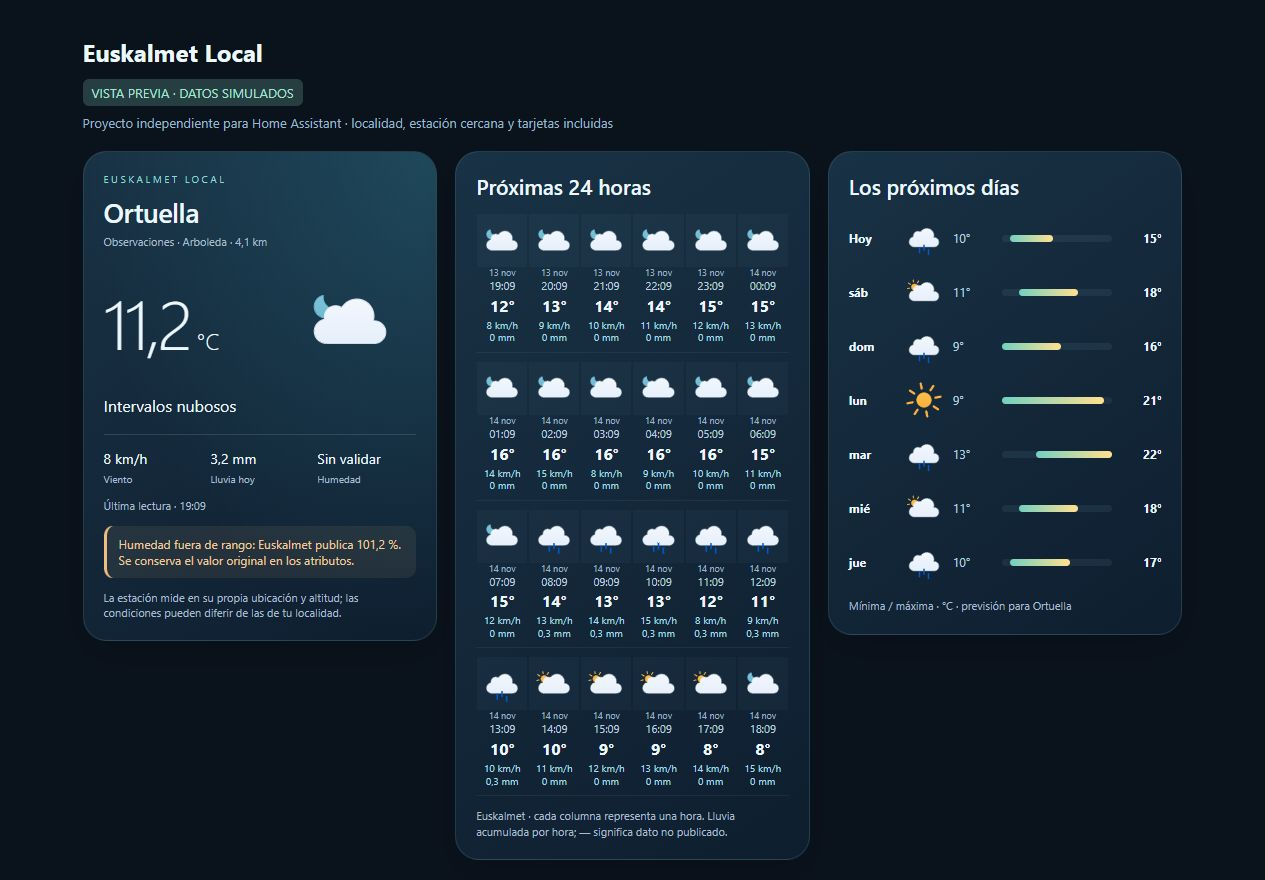
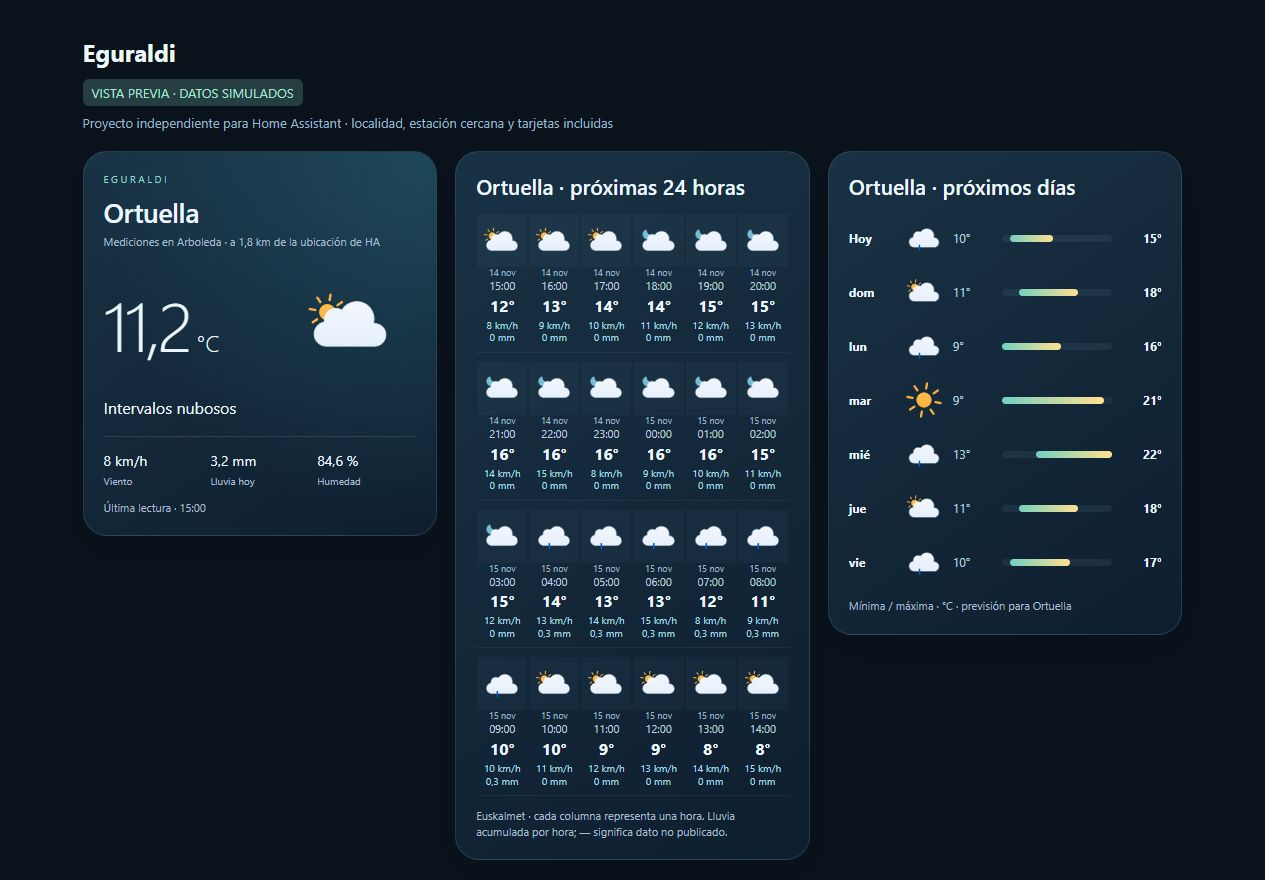
Refresh Eguraldi screenshots and add voluntary project support

diff --git a/docs/preview.html b/docs/preview.html
@@ -1,11 +1,39 @@
 <!doctype html><html lang="es"><meta charset="utf-8"><meta name="viewport" content="width=device-width,initial-scale=1"><title>Eguraldi · vista previa</title>
+
 <style>body{background:#0b121d;color:#eef8ff;font-family:system-ui;margin:0;padding:20px}header{max-width:1100px;margin:auto auto 20px}header p{color:#9bb7cc;font-size:13px}.grid{max-width:1100px;margin:auto;display:grid;grid-template-columns:repeat(auto-fit,minmax(min(100%,340px),1fr));gap:18px;align-items:start}h1{font-size:24px}euskalmet-local-card{display:block;min-width:0}mark{background:#283e42;color:#a6e6ce;padding:5px 9px;border-radius:6px}</style>
+
 <header><h1>Eguraldi</h1><p><mark>VISTA PREVIA · DATOS SIMULADOS</mark></p><p>Proyecto independiente para Home Assistant · localidad, estación cercana y tarjetas incluidas</p></header><main class="grid" id="cards"></main>
+
 <script type="module">
+
 import {EuskalmetLocalCard} from '/euskalmet_local_static/euskalmet-local-card.js';
-const now=Date.now(),loc={entry_id:'demo',locality:'Ortuella',station:'Arboleda',distance_km:4.1,latitude:43.31,longitude:-3.05,entities:{weather:'weather.demo',temperature:'sensor.demo_temperature',humidity:'sensor.demo_humidity',precipitation_today:'sensor.demo_rain'}};
+
+const now=new Date().setMinutes(0,0,0),loc={entry_id:'demo',locality:'Ortuella',station:'Arboleda',location_source:'home_assistant',distance_km:1.8,latitude:43.31,longitude:-3.05,entities:{weather:'weather.demo',temperature:'sensor.demo_temperature',humidity:'sensor.demo_humidity',precipitation_today:'sensor.demo_rain',temperature_min_today:'sensor.demo_min',temperature_max_today:'sensor.demo_max',wind_gust_max_today:'sensor.demo_gust',irradiance:'sensor.demo_irradiance'}};
+
 const hourly=Array.from({length:24},(_,i)=>({datetime:new Date(now+i*3600000).toISOString(),temperature:12+Math.sin(i/5)*4,wind_speed:8+i%8,precipitation:i>12&&i<19?.3:0,condition:i>12&&i<19?'rainy':'partlycloudy'}));
+
 const daily=Array.from({length:7},(_,i)=>({datetime:new Date(now+i*86400000).toISOString(),temperature:[15,18,16,21,22,18,17][i],templow:[10,11,9,9,13,11,10][i],condition:['rainy','partlycloudy','rainy','sunny','rainy','partlycloudy','rainy'][i]}));
-const hass={config:{time_zone:'Europe/Madrid'},states:{'weather.demo':{state:'partlycloudy',attributes:{temperature:11.2,temperature_unit:'°C',wind_speed:8,wind_speed_unit:'km/h',humidity:null}},'sensor.demo_temperature':{state:'11.2',attributes:{observed_at:new Date().toISOString()}},'sensor.demo_humidity':{state:'unknown',attributes:{quality:'out_of_range',raw_value:101.2}},'sensor.demo_rain':{state:'3.2',attributes:{}}},callWS:async()=>[loc],connection:{subscribeMessage:async(cb,msg)=>{if(msg.type==='subscribe_events')return ()=>{};cb({forecast:msg.forecast_type==='daily'?daily:hourly});return ()=>{};}}};
-for(const mode of ['overview','hourly','daily']){const card=document.createElement('euskalmet-local-card');card.setConfig({mode});card.hass=hass;document.querySelector('#cards').append(card);}
+
+const hass={config:{time_zone:'Europe/Madrid'},states:{'weather.demo':{state:'partlycloudy',attributes:{temperature:11.2,temperature_unit:'°C',wind_speed:8,wind_speed_unit:'km/h',humidity:null}},'sensor.demo_temperature':{state:'11.2',attributes:{observed_at:new Date().toISOString()}},'sensor.demo_humidity':{state:'84.6',attributes:{}},'sensor.demo_rain':{state:'3.2',attributes:{unit_of_measurement:'mm'}},'sensor.demo_min':{state:'10.4',attributes:{unit_of_measurement:'°C'}},'sensor.demo_max':{state:'16.6',attributes:{unit_of_measurement:'°C'}},'sensor.demo_gust':{state:'22.8',attributes:{unit_of_measurement:'km/h'}},'sensor.demo_irradiance':{state:'132',attributes:{unit_of_measurement:'W/m²'}}},callWS:async()=>[loc],connection:{subscribeMessage:async(cb,msg)=>{if(msg.type==='subscribe_events')return ()=>{};cb({forecast:msg.forecast_type==='daily'?daily:hourly});return ()=>{};}}};
+
+for(const mode of (new URLSearchParams(location.search).get('view')==='editor'?[]:['overview','hourly','daily'])){const card=document.createElement('euskalmet-local-card');card.setConfig({mode});card.hass=hass;document.querySelector('#cards').append(card);}
+
+if(new URLSearchParams(location.search).get('view')==='editor'){
+
+  document.querySelector('.grid').style.cssText='max-width:800px;grid-template-columns:1fr 1fr';
+
+  const editor=document.createElement('euskalmet-local-editor');
+
+  editor.style.cssText='display:block;background:#132331;padding:20px;border-radius:20px;--card-background-color:#132331;--primary-text-color:#eef8ff;--secondary-text-color:#9bb7cc;--divider-color:#385269';
+
+  editor.setConfig({type:'custom:euskalmet-local-card',mode:'radar',entry_id:'demo',zoom:10});editor.hass=hass;
+
+  document.querySelector('#cards').append(editor);
+
+  const description=document.createElement('div');description.innerHTML='<h2>Editor visual</h2><p>Elige la vista, la localidad y el zoom del radar desde Home Assistant.</p><p>Las tarjetas muestran tu localidad y, en pequeño, la estación utilizada y su distancia.</p>';
+
+  document.querySelector('#cards').append(description);
+
+}
+
 </script></html>

diff --git a/tools/build_release.py b/tools/build_release.py
@@ -30,7 +30,12 @@ def build(output_dir: Path | None = None):
             archive.write(path, path.relative_to(ROOT).as_posix())
         for name in ("LICENSE", "THIRD_PARTY_NOTICES.md", "README.md"):
             archive.write(ROOT / name, name)
-        for name in ("INSTALLATION.md", "preview.jpg"):
+        for name in (
+            "INSTALLATION.md",
+            "preview.jpg",
+            "preview-mobile.jpg",
+            "preview-editor.jpg",
+        ):
             path = ROOT / "docs" / name
             if path.is_file():
                 archive.write(path, f"docs/{name}")

diff --git a/custom_components/euskalmet_local/dashboard.py b/custom_components/euskalmet_local/dashboard.py
@@ -7,7 +7,7 @@ from homeassistant.helpers import entity_registry as er
 
 from .const import DOMAIN
 
-VERSION = "0.1.0"
+VERSION = "0.1.1"
 EVENT_LOCATIONS_UPDATED = f"{DOMAIN}_locations_updated"
 
 

diff --git a/README.md b/README.md
@@ -1,13 +1,24 @@
 # Eguraldi
 
-El tiempo de tu localidad en Home Assistant, con datos de Euskalmet y tarjetas animadas incluidas.
+El tiempo de Euskalmet en Home Assistant: observaciones de estaciones cercanas, previsión por horas y días, avisos, radar y tarjetas incluidas.
 
 [![Comprobaciones](https://github.com/GOG23-Software-Studio/eguraldi/actions/workflows/ci.yml/badge.svg)](https://github.com/GOG23-Software-Studio/eguraldi/actions/workflows/ci.yml)
+
 [![Versión](https://img.shields.io/github/v/release/GOG23-Software-Studio/eguraldi)](https://github.com/GOG23-Software-Studio/eguraldi/releases)
 
-**Versión 0.1.0.** Proyecto comunitario independiente, sin afiliación con Euskalmet ni con el Gobierno Vasco.
+**Versión 0.1.1.** Proyecto comunitario independiente, sin afiliación con Euskalmet ni con el Gobierno Vasco.
 
-![Tarjetas de Eguraldi con datos simulados](docs/preview.jpg)
+![Tarjetas actuales de Eguraldi en escritorio, con datos simulados](docs/preview.jpg)
+
+<details>
+
+<summary>Ver la vista móvil y el editor visual</summary>
+
+![Eguraldi en móvil, con datos simulados](docs/preview-mobile.jpg)
+
+![Editor visual de Eguraldi, con datos simulados](docs/preview-editor.jpg)
+
+</details>
 
 ## Instalar
 
@@ -16,13 +27,19 @@ El tiempo de tu localidad en Home Assistant, con datos de Euskalmet y tarjetas a
 Si el enlace no funciona, añade este repositorio en **HACS / Marketplace**, como **Integración**:
 
 ```text
+
 https://github.com/GOG23-Software-Studio/eguraldi
+
 ```
 
 1. Instala la última versión de **Eguraldi** y reinicia Home Assistant.
+
 2. Ve a **Ajustes → Dispositivos y servicios → Añadir integración → Eguraldi**.
+
 3. Introduce el correo de tu cuenta de [Open Data Euskadi](https://api.euskadi.eus/opendata-apikey/#/) y el contenido completo de `privatekey.pem`.
+
 4. Deja seleccionada **Ubicación de Home Assistant**, o elige **Otra localidad**. Revisa el municipio y la estación antes de guardar.
+
 5. Añade una tarjeta **Eguraldi** a tu panel. Elige la vista y la ubicación en el editor visual.
 
 Necesitas **Home Assistant 2026.8 o posterior**, Internet y una cuenta gratuita de Open Data Euskadi. Si no llega el correo de activación, revisa spam o prueba **Iniciar sesión con Google**. El asistente incluye el enlace para descargar tus claves.
@@ -34,11 +51,17 @@ La instalación por repositorio personalizado ya está disponible. La inclusión
 ## Qué incluye
 
 - Tiempo actual y resúmenes meteorológicos diarios, mensuales y anuales.
+
 - Próximas 24 horas en cuatro filas de seis, con iconos animados y sin desplazamiento horizontal.
+
 - Previsión de siete días con iconos y barras de mínimas y máximas.
+
 - Radar animado centrado en la ubicación, marcador, zoom cercano, **Mi ubicación** y **Ver cobertura**.
+
 - Histórico mensual y comparación de temperaturas con un sensor de tu casa.
+
 - Avisos, previsión marítima, mareas y polen.
+
 - Tarjetas incluidas sin Mushroom, button-card ni otros complementos.
 
 ## Ubicación y estación
@@ -56,21 +79,35 @@ En **Añadir tarjeta → Eguraldi**, el editor permite elegir vista y ubicación
 También puedes usar YAML:
 
 ```yaml
+
 type: custom:euskalmet-local-card
+
 mode: dashboard
+
 ```
 
 | Vista | `mode` |
+
 | --- | --- |
+
 | Panel completo | `dashboard` |
+
 | Tiempo actual | `overview` |
+
 | Próximas 24 horas | `hourly` |
+
 | Próximos días | `daily` |
+
 | Resumen de hoy | `summaries` |
+
 | Histórico mensual | `history` |
+
 | Radar | `radar` |
+
 | Avisos | `alerts` |
+
 | Comparación de temperatura | `comparison` |
+
 | Costa y ambiente | `environment` |
 
 Con una sola ubicación se detecta automáticamente. Con varias, guarda la ubicación desde el editor; en YAML se puede fijar con `entry_id`. Los recursos se registran automáticamente. La instalación no modifica ni crea paneles personales.
@@ -100,3 +137,9 @@ MIT. La conexión a Euskalmet y las plataformas parten de [mitxol/home-assistant
 Datos: Euskalmet / Open Data Euskadi. Geocodificación: Open-Meteo / GeoNames. Iconos: Meteocons, Bas Milius. Mapas: Esri / OpenStreetMap; Leaflet incluido. Límites municipales: **Eusko Jaurlaritza / Gobierno Vasco. geoEuskadi.** [Fuente](https://www.geo.euskadi.eus/limites-administrativos-del-pais-vasco/webgeo00-dataset/es/).
 
 [Licencia](LICENSE) · [Avisos de terceros](THIRD_PARTY_NOTICES.md) · [Contribuir](CONTRIBUTING.md)
+
+## Apoyar el proyecto
+
+Eguraldi es gratuito y de código abierto. Si te resulta útil y quieres apoyar el tiempo que dedico a desarrollarlo, puedes [invitarme a un café](https://www.buymeacoffee.com/oyogor). El apoyo es opcional y no desbloquea funciones.
+
+<a href="https://www.buymeacoffee.com/oyogor" target="_blank" rel="noopener noreferrer"><img src="https://cdn.buymeacoffee.com/buttons/v2/default-yellow.png" alt="Buy Me a Coffee" height="60" width="217"></a>
